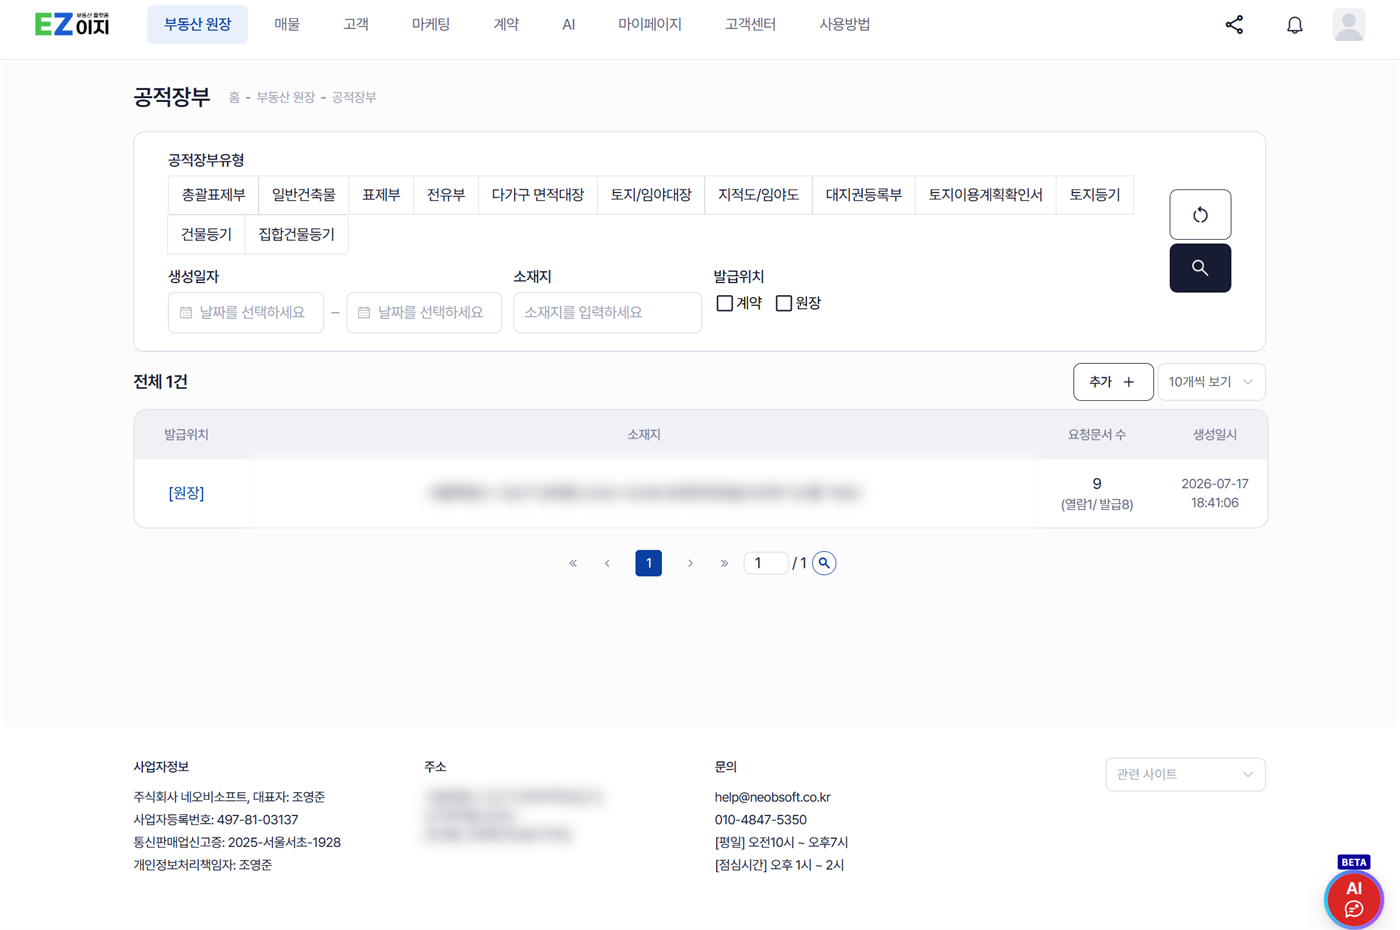
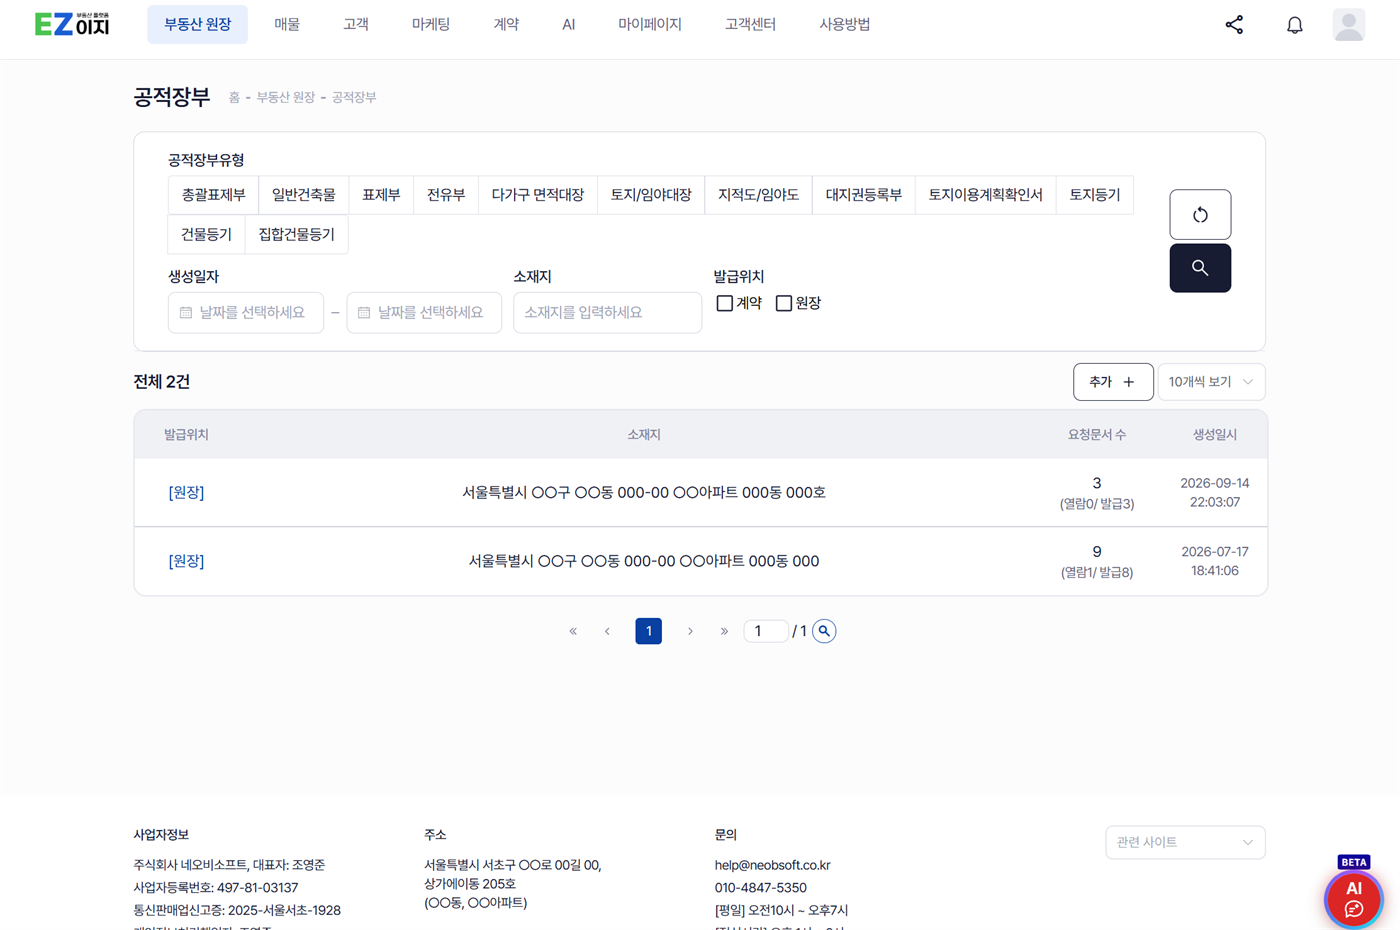
공적장부 발급 완료 화면과 사무소 정보 스크린샷 추가
- 공적장부 1·4단계: 목록을 치환본으로 교체, 발급 완료(처리완료 + 적법 배지) 추가
- 가계약 8단계: 계약 관리 목록의 거래신고 기한 (D-29) 표시
- 시작하기 2단계: 마이페이지 설정의 중개사무소 정보 탭

마이페이지 설정 탭 구조를 확인해 CLAUDE.md에 기록
- 계정 정보 / 프로필 정보 / 중개사무소 정보 / 직원 정보 / 정산 설정 5개 탭
- 강의자료에서 별도 메뉴였던 개인 정보·사무실 정보가 이 탭들로 통합됨
- 시작하기 문서의 경로를 중개사무소 정보 탭으로 정정
- 이로써 CLAUDE.md에 남아 있던 확인 필요 항목이 모두 해소됨

공적장부 5단계(일괄 출력)는 OS 인쇄창이라 캡처가 어려워 주석으로 남겨 둠

diff --git a/CLAUDE.md b/CLAUDE.md
@@ -206,8 +206,20 @@ AI 권리분석은 **공적장부를 열람·발급한 뒤에** 실행해야 합
 | 매물노트 템플릿 편집 | 매물 접수 시 매물 노트에 들어갈 기본 템플릿 |
 | 가계약 사무실 소개 템플릿 | 가계약 문자에 붙는 사무실 소개문구 |
 
-※ 강의자료에서 `설정` 안에 있던 **SMS 콜백**도 지금은 `템플릿 관리` 탭입니다.
-`마이페이지 → 설정`에 지금 무엇이 들어 있는지는 아직 확인하지 않았습니다. <!-- 확인 필요 -->
+**`마이페이지 → 설정`의 탭은 5개입니다 (2026.09 확인)** — **계정 정보 · 프로필 정보 · 중개사무소 정보 · 직원 정보 · 정산 설정**
+
+강의자료에서 별도 메뉴였던 `개인 정보`·`사무실 정보`가 지금은 이 탭들로 들어와 있습니다.
+
+| 탭 | 무엇이 있나 |
+| --- | --- |
+| 계정 정보 | 아이디 · 비밀번호 변경 · 휴대폰 번호 · 전화번호 |
+| 프로필 정보 | 프로필 |
+| **중개사무소 정보** | 중개사무소명 · 대표자 · 주소 · 전화번호 · 개설등록번호 · 개설등록증 파일 · 공제 증서 · 사업자등록번호 · 업태 |
+| 직원 정보 | 소속공인중개사 · 중개보조원 등록 |
+| 정산 설정 | 계좌 등록 |
+
+→ 문서에서 사무소 정보를 안내할 때는 `마이페이지 → 설정`의 **중개사무소 정보 탭**이라고 정확히 쓰세요.
+
 
 **체험 계정 안내는 이렇게 씁니다 (확정)** — `testuser1`~`testuser5` / `test123!@#`
 

diff --git a/docs/start/first-contract.md b/docs/start/first-contract.md
@@ -29,9 +29,10 @@
 
 ## 2. 사무소 정보 확인하기
 
-<!-- ![사무소 정보](/images/first-01.png) -->
+![사무소 정보](/images/first-01.png)
 
-로그인 후 상단 메뉴 **마이페이지 → 설정**에서 상호·등록번호·대표자명·주소를 확인합니다.
+로그인 후 상단 메뉴 **마이페이지 → 설정**으로 들어가 **중개사무소 정보** 탭을 엽니다.
+중개사무소명·대표자·주소·전화번호·개설등록번호를 확인합니다.
 **여기 적힌 내용이 모든 계약서와 확인설명서에 그대로 찍혀 나옵니다.**
 지금 정확히 맞춰두시면 나중에 서류마다 고칠 일이 없습니다.
 

diff --git a/docs/howto/public-records.md b/docs/howto/public-records.md
@@ -91,7 +91,7 @@
 
 ## 4. 위반건축물인지 확인하기
 
-<!-- ![위반건축물 배지](/images/public-records-04.png) -->
+![위반건축물 배지](/images/public-records-04.png)
 
 일반건축물대장에는 **(위반)** 또는 **(적법)** 배지가 자동으로 붙습니다.
 

diff --git a/docs/howto/pre-contract-sms.md b/docs/howto/pre-contract-sms.md
@@ -107,7 +107,7 @@
 
 ## 8. 신고기한 확인하기
 
-<!-- ![계약 관리 D-30](/images/pre-contract-sms-08.png) -->
+![계약 관리 D-30](/images/pre-contract-sms-08.png)
 
 상단 메뉴 **계약 → 계약 관리**에서 전체를 봅니다.
 
